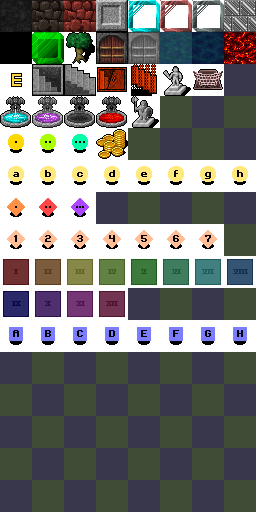
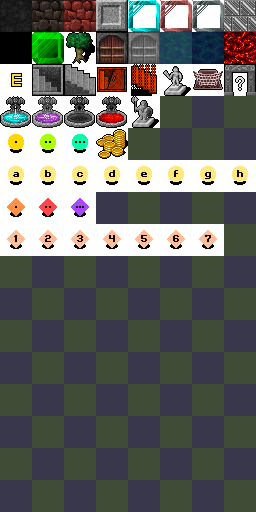
Added random altars and removed deprecated trap syntax
Also eliminated out of date trigger syntax.

Changed region(s): [[0.0, 0.5, 1.0, 0.6875], [0.875, 0.125, 1.0, 0.1875]]

diff --git a/docs/index.html b/docs/index.html
@@ -89,15 +89,14 @@ nsubst := { 'type': 'NSUBST',
 
 tilemap = [['.', 'x', 'X', 'c', 'm', 'o', 'n', 'v'],
            [' ', 'b', 't', '+', '=', 'W', 'w', 'l'],
-           ['@', ')', '(', '&gt;', '&lt;', 'I', '^', '~'],
+           ['@', ')', '(', '&gt;', '&lt;', 'I', '~', 'C'],
            ['T', 'U', 'V', 'Y', 'G', 000, 000, 000],
            ['%', '*', '|', '$', 000, 000, 000, 000],
            ['d', 'e', 'f', 'g', 'h', 'i', 'j', 'k'],
            ['0', '9', '8', 000, 000, 000, 000, 000],
            ['1', '2', '3', '4', '5', '6', '7', 000],
            ['-', '&quot;', "'", '`', ';', '_', 'p', 'q'],
-           ['r', 's', 'u', 'y', 000, 000, 000, 000],
-           ['A', 'B', 'C', 'D', 'E', 'F', 'Q', 'H']];
+           ['r', 's', 'u', 'y', 000, 000, 000, 000]];
 
 itemdefs = ['any', 'any', 'any', 'any', 'any', 'any', 'any', 'any']; // d-k
 monsdefs = ['random', 'random', 'random', 'random', 'random', 'random', 'random']; // 1-7
